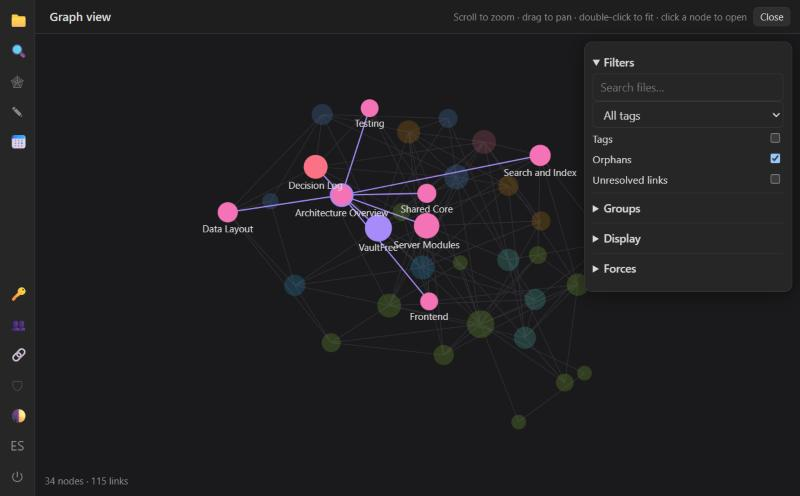
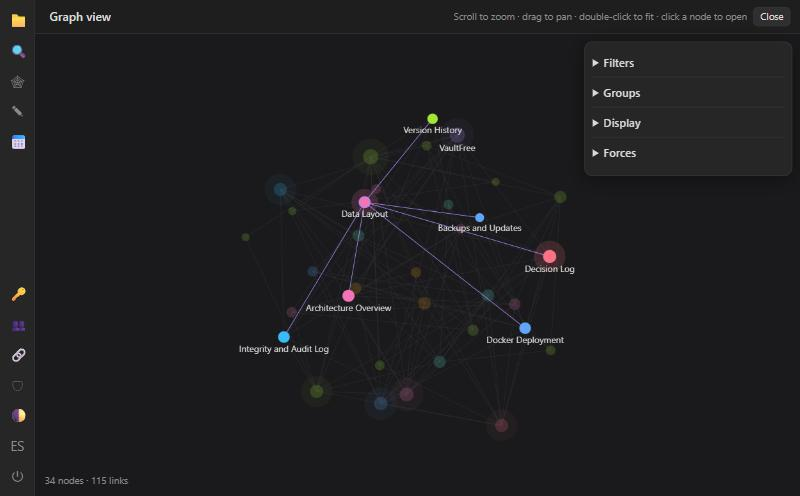
Graph: Constellation style (default) with classic option
- Small stars sized by connections, soft halos and labels on hub notes,
  thin translucent links; other labels appear when zooming in
- Style switch in the graph Display panel (Constellation / Classic)
- Wider default layout, auto-fit while the layout settles and on resize
- Refresh README screenshots

diff --git a/web/js/graph.js b/web/js/graph.js
@@ -2,8 +2,8 @@
 // zoom/pan/drag, hover-highlight of neighbours, groups, filters. No dependencies.
 
 const DEFAULTS = {
-  centerForce: 0.12, repelForce: 1, linkForce: 1, linkDistance: 60,
-  nodeSize: 1, linkThickness: 1, textFade: 0.8, arrows: false, colorBy: 'folder', groups: [],
+  centerForce: 0.07, repelForce: 2, linkForce: 1, linkDistance: 95,
+  nodeSize: 1, linkThickness: 1, textFade: 0.8, arrows: false, colorBy: 'folder', groups: [], style: 'constellation',
 };
 
 const PALETTE = ['#a88bfa', '#5eead4', '#f59e0b', '#f472b6', '#60a5fa', '#a3e635', '#fb7185', '#38bdf8', '#e879f9', '#facc15'];
@@ -65,6 +65,7 @@ export class GraphView {
     const deg = new Map();
     for (const l of this.links) { deg.set(l.s, (deg.get(l.s) || 0) + 1); deg.set(l.t, (deg.get(l.t) || 0) + 1); }
     this.deg = deg;
+    this._markHubs();
     this.adj = new Map(this.nodes.map((n) => [n, new Set()]));
     for (const l of this.links) { this.adj.get(l.s).add(l.t); this.adj.get(l.t).add(l.s); }
     this.readTheme();
@@ -101,9 +102,17 @@ export class GraphView {
 
   reheat(a = 0.6) { this.alpha = Math.max(this.alpha, a); }
 
+  /** Hubs = the best-connected notes (top ~15%, at least 3 links). Constellation labels and halos them. */
+  _markHubs() {
+    const degs = this.nodes.map((n) => this.deg.get(n) || 0).sort((a, b) => b - a);
+    const cut = Math.max(3, degs[Math.min(degs.length - 1, Math.floor(degs.length * 0.15))] || 0);
+    for (const n of this.nodes) n.hub = (this.deg.get(n) || 0) >= cut && n.type === 'note';
+  }
+
   radius(n) {
     const d = this.deg?.get(n) || 0;
-    return (3 + Math.sqrt(d) * 2.1) * this.opt.nodeSize * (n.type === 'unresolved' ? 0.8 : 1);
+    const base = this.opt.style === 'classic' ? 3 + Math.sqrt(d) * 2.1 : 1.8 + Math.sqrt(d) * 1.35;
+    return base * this.opt.nodeSize * (n.type === 'unresolved' ? 0.8 : 1);
   }
 
   // ---------- simulation ----------
@@ -184,7 +193,7 @@ export class GraphView {
     const w = this.w, h = this.h;
     let minX = Infinity, minY = Infinity, maxX = -Infinity, maxY = -Infinity;
     for (const n of this.nodes) { minX = Math.min(minX, n.x); maxX = Math.max(maxX, n.x); minY = Math.min(minY, n.y); maxY = Math.max(maxY, n.y); }
-    const k = Math.min(w / (maxX - minX + 120), h / (maxY - minY + 120), 2.5);
+    const k = Math.min(w / (maxX - minX + 90), h / (maxY - minY + 90), 3);
     this.view = { k: isFinite(k) && k > 0 ? k : 1, x: -((minX + maxX) / 2) * k, y: -((minY + maxY) / 2) * k };
     this.dirty = true;
   }
@@ -196,6 +205,7 @@ export class GraphView {
     this.canvas.width = this.w * dpr; this.canvas.height = this.h * dpr;
     this.canvas.style.width = this.w + 'px'; this.canvas.style.height = this.h + 'px';
     this.dpr = dpr; this.dirty = true;
+    if (this.autoFit && this.nodes?.length) this.fit(false);
   }
 
   toWorld(px, py) { return { x: (px - this.w / 2 - this.view.x) / this.view.k, y: (py - this.h / 2 - this.view.y) / this.view.k }; }
@@ -274,15 +284,18 @@ export class GraphView {
     const isLit = (n) => !hov || n === hov || hl.has(n);
 
     // links
-    const lw = Math.max(0.6, opt.linkThickness) / Math.sqrt(view.k + 0.3);
+    const constel = opt.style !== 'classic';
+    const lw = (constel ? Math.max(0.35, opt.linkThickness * 0.5) : Math.max(0.6, opt.linkThickness)) / Math.sqrt(view.k + 0.3);
     ctx.lineWidth = lw;
     ctx.strokeStyle = hov ? C.dim : C.link;
+    ctx.globalAlpha = constel && !hov ? 0.7 : 1;
     ctx.beginPath();
     for (const l of this.links) {
       if (hov && (l.s === hov || l.t === hov)) continue;
       ctx.moveTo(l.s.x, l.s.y); ctx.lineTo(l.t.x, l.t.y);
     }
     ctx.stroke();
+    ctx.globalAlpha = 1;
     if (hov) {
       ctx.strokeStyle = C.accent; ctx.lineWidth = lw * 1.4;
       ctx.beginPath();
@@ -301,12 +314,17 @@ export class GraphView {
     // nodes
     for (const n of this.nodes) {
       const r = this.radius(n);
+      if (constel && (n.hub || n.id === this.current || n === hov)) { // soft halo, like a bright star
+        ctx.globalAlpha = isLit(n) ? 0.16 : 0.04;
+        ctx.beginPath(); ctx.arc(n.x, n.y, r * 2.4, 0, Math.PI * 2);
+        ctx.fillStyle = n.id === this.current ? C.accent : n.color || C.node; ctx.fill();
+      }
       ctx.globalAlpha = isLit(n) ? 1 : 0.18;
       ctx.beginPath();
       ctx.arc(n.x, n.y, r, 0, Math.PI * 2);
       ctx.fillStyle = n.id === this.current ? C.accent : n.color || C.node;
       ctx.fill();
-      if (n.id === this.current || n === hov) { ctx.lineWidth = 2 / view.k; ctx.strokeStyle = C.accent; ctx.stroke(); }
+      if (n.id === this.current || n === hov) { ctx.lineWidth = (constel ? 1.2 : 2) / view.k; ctx.strokeStyle = C.accent; ctx.stroke(); }
     }
     ctx.globalAlpha = 1;
 
@@ -314,12 +332,15 @@ export class GraphView {
     const fade = Math.max(0, Math.min(1, (view.k - (1.2 - opt.textFade)) * 1.6));
     ctx.textAlign = 'center';
     ctx.textBaseline = 'top';
-    const fs = 12 / Math.max(view.k, 0.55);
+    const fs = (constel ? 11 : 12) / Math.max(view.k, 0.55);
+    const fadeSmall = Math.max(0, Math.min(1, (view.k - (2.4 - opt.textFade * 1.2)) * 1.4));
+    const fadeHub = Math.min(1, 0.6 + view.k * 0.4);
     ctx.font = `${fs}px system-ui, sans-serif`;
     for (const n of this.nodes) {
       const lit = isLit(n);
       const emphasized = n === hov || n.id === this.current || (hov && hl.has(n));
-      const alpha = emphasized ? 1 : lit ? fade * (n.type === 'unresolved' ? 0.6 : 0.85) : 0;
+      const base = constel ? (n.hub ? fadeHub : fadeSmall) : fade;
+      const alpha = emphasized ? 1 : lit ? base * (n.type === 'unresolved' ? 0.6 : constel ? 0.95 : 0.85) : 0;
       if (alpha < 0.05) continue;
       ctx.globalAlpha = alpha;
       ctx.fillStyle = C.text;

diff --git a/web/js/app.js b/web/js/app.js
@@ -13,8 +13,8 @@ const S = {
   user: null, canCreate: true, vaults: [], vault: null, notes: [], files: [], resolve: () => null, tags: [],
   cur: null, view: 'note', mode: ls('mode', 'split'), sbTab: 'files', rbTab: ls('rb', 'links'),
   presence: [], collapsed: new Set(ls('collapsed', [])), es: null, gv: null, local: null, searchQ: '',
-  gs: Object.assign({ q: '', tag: '', orphans: true, unresolved: false, tags: false, arrows: false, textFade: 0.8, nodeSize: 1,
-    linkThickness: 1, centerForce: 0.12, repelForce: 1, linkForce: 1, linkDistance: 60, groups: [], colorBy: 'folder', depth: 1 }, ls('graph', {})),
+  gs: Object.assign({ q: '', tag: '', orphans: true, unresolved: false, tags: false, arrows: false, style: 'constellation', textFade: 0.8, nodeSize: 1,
+    linkThickness: 1, centerForce: 0.07, repelForce: 2, linkForce: 1, linkDistance: 95, groups: [], colorBy: 'folder', depth: 1 }, ls('graph', {})),
 };
 const V = () => S.vault.id;
 const API = (p = '') => `/api/vaults/${V()}${p}`;
@@ -818,7 +818,7 @@ function graphPanel(gv) {
   return h('div', { class: 'graph-panel' },
     h('details', { open: true }, h('summary', {}, t('Filters')), q, tagSel, check(t('Tags'), 'tags', true), check(t('Orphans'), 'orphans', true), check(t('Unresolved links'), 'unresolved', true)),
     h('details', {}, h('summary', {}, t('Groups')), h('label', {}, t('Color by folder'), h('input', { type: 'checkbox', checked: g.colorBy === 'folder', onchange: (e) => { g.colorBy = e.target.checked ? 'folder' : 'none'; gv.setOptions({ colorBy: g.colorBy }, false); gv.recolor(); save(); } })), groupsBox),
-    h('details', {}, h('summary', {}, t('Display')), check(t('Arrows'), 'arrows'), range(t('Text fade'), 'textFade', 0, 1.5, 0.05), range(t('Node size'), 'nodeSize', 0.4, 3, 0.05), range(t('Link thickness'), 'linkThickness', 0.3, 4, 0.1)),
+    h('details', {}, h('summary', {}, t('Display')), h('label', {}, t('Style'), h('select', { class: 'input', onchange: (e) => { g.style = e.target.value; gv.setOptions({ style: g.style }, false); S.local?.setOptions({ style: g.style }, false); save(); } }, h('option', { value: 'constellation', selected: g.style !== 'classic' }, t('Constellation')), h('option', { value: 'classic', selected: g.style === 'classic' }, t('Classic')))), check(t('Arrows'), 'arrows'), range(t('Text fade'), 'textFade', 0, 1.5, 0.05), range(t('Node size'), 'nodeSize', 0.4, 3, 0.05), range(t('Link thickness'), 'linkThickness', 0.3, 4, 0.1)),
     h('details', {}, h('summary', {}, t('Forces')), range(t('Center force'), 'centerForce', 0, 1, 0.01), range(t('Repel force'), 'repelForce', 0, 4, 0.05), range(t('Link force'), 'linkForce', 0, 3, 0.05), range(t('Link distance'), 'linkDistance', 20, 250, 1)));
 }
 

diff --git a/web/js/i18n.js b/web/js/i18n.js
@@ -55,6 +55,7 @@ export const ES = {
   'Copy this vault to my own vault…': 'Copiar este vault a mi propio vault…', 'Copy to my own vault': 'Copiar a mi propio vault',
   'New vault name': 'Nombre del nuevo vault', 'What to copy': 'Qué copiar', 'Everything': 'Todo', 'Copying…': 'Copiando…',
   'Username to add': 'Usuario a añadir', 'Token name, e.g. “Claude Desktop”': 'Nombre del token, p. ej. “Claude Desktop”',
+  'Style': 'Estilo', 'Constellation': 'Constelación', 'Classic': 'Clásico',
   'New folder': 'Nueva carpeta', 'New subfolder': 'Nueva subcarpeta', 'Rename folder': 'Renombrar carpeta', 'Delete folder': 'Eliminar carpeta',
   'Move note to folder…': 'Mover nota a carpeta…', '(vault root)': '(raíz del vault)', 'Folder name': 'Nombre de la carpeta', 'or full path': 'o ruta completa',
   // generic modals

diff --git a/README.md b/README.md
@@ -34,7 +34,7 @@ Plain Markdown files · wikilinks & backlinks · live graph · teams without los
 | | |
 |---|---|
 | **Notes** | Obsidian-compatible Markdown: `[[wikilinks]]`, `[[Note#Heading\|alias]]`, `![[embeds]]`, nested `#tags`, frontmatter, callouts, task lists, tables, backlinks, rename-with-link-update |
-| **Graph view** | Force-directed canvas: hover to highlight neighbours, zoom/pan/drag, filters (search, tags, orphans, unresolved), colour groups, force & display sliders, local graph per note |
+| **Graph view** | Constellation-style force-directed canvas (classic style optional): hover to highlight neighbours, zoom/pan/drag, filters (search, tags, orphans, unresolved), colour groups, force & display sliders, local graph per note |
 | **Folders** | Nested folders, empty folders, drag & drop notes and folders, rename/move with automatic link updates |
 | **Teamwork** | Roles (viewer / editor / owner), live updates (SSE), presence avatars, full version history with restore |
 | **No lost edits** | Every save carries the revision it started from; stale saves are three-way merged, real conflicts are shown, never overwritten |

diff --git a/CHANGELOG.md b/CHANGELOG.md
@@ -6,7 +6,7 @@ All notable changes to this project are documented here. Format based on [Keep a
 
 ### Added
 - Markdown vaults stored as plain files; wikilinks, embeds, nested tags, frontmatter, backlinks, rename with link rewriting
-- Obsidian-style graph view (hover highlight, zoom/pan/drag, filters, groups, forces) and a local graph per note
+- Graph view in a "Constellation" style (small stars, halos and labels on hubs; classic style optional) with hover highlight, zoom/pan/drag, filters, groups, forces, auto-fit, and a local graph per note
 - Nested folders (including empty ones) with drag & drop, rename/move and delete
 - Multi-user: accounts, roles (viewer/editor/owner), live updates, presence, version history with restore
 - Three-way merge on save, so concurrent edits are never overwritten
